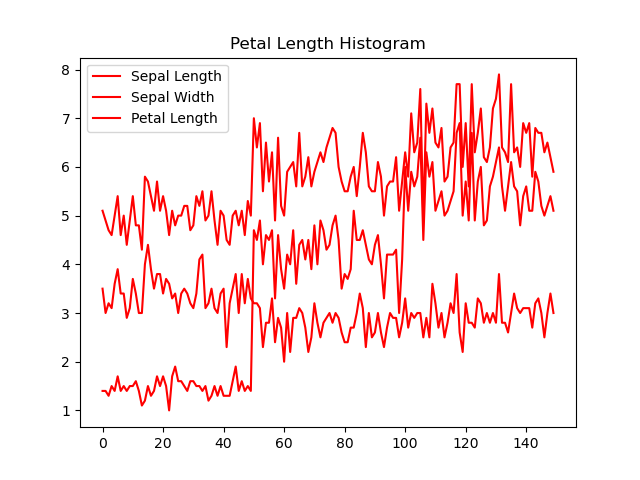
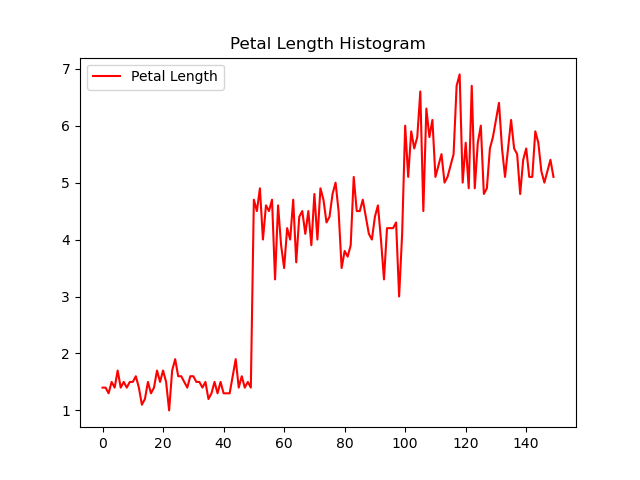
plt.clf() added to make single variable on a single png file

diff --git a/hist_variables.py b/hist_variables.py
@@ -28,3 +28,6 @@ def hist_plot(column, name_variable):
         # https://docs.python.org/3/library/os.path.html
         plt.savefig(os.path.join('histograms', f'{name_variable}.png'), format='png')
         
+        # Clear the plot to avoid overlapping plots in subsequent calls
+        plt.clf()
+        
